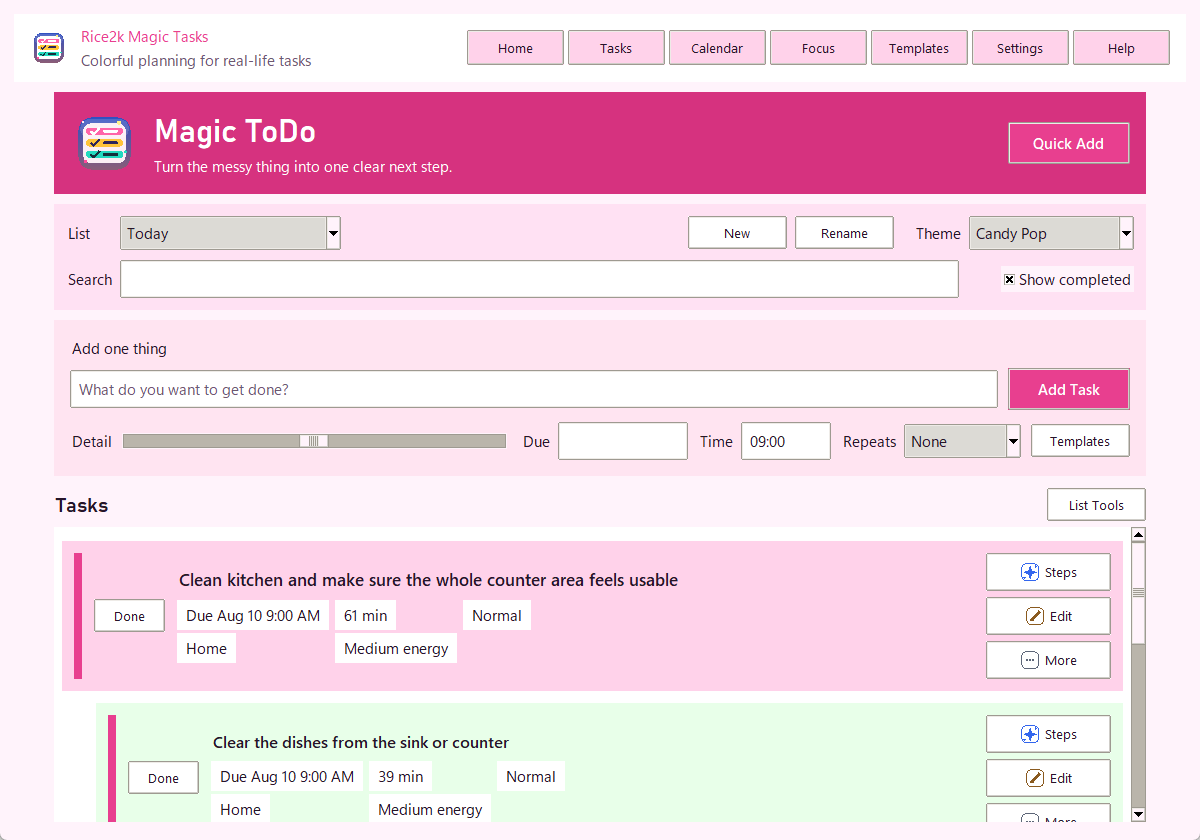
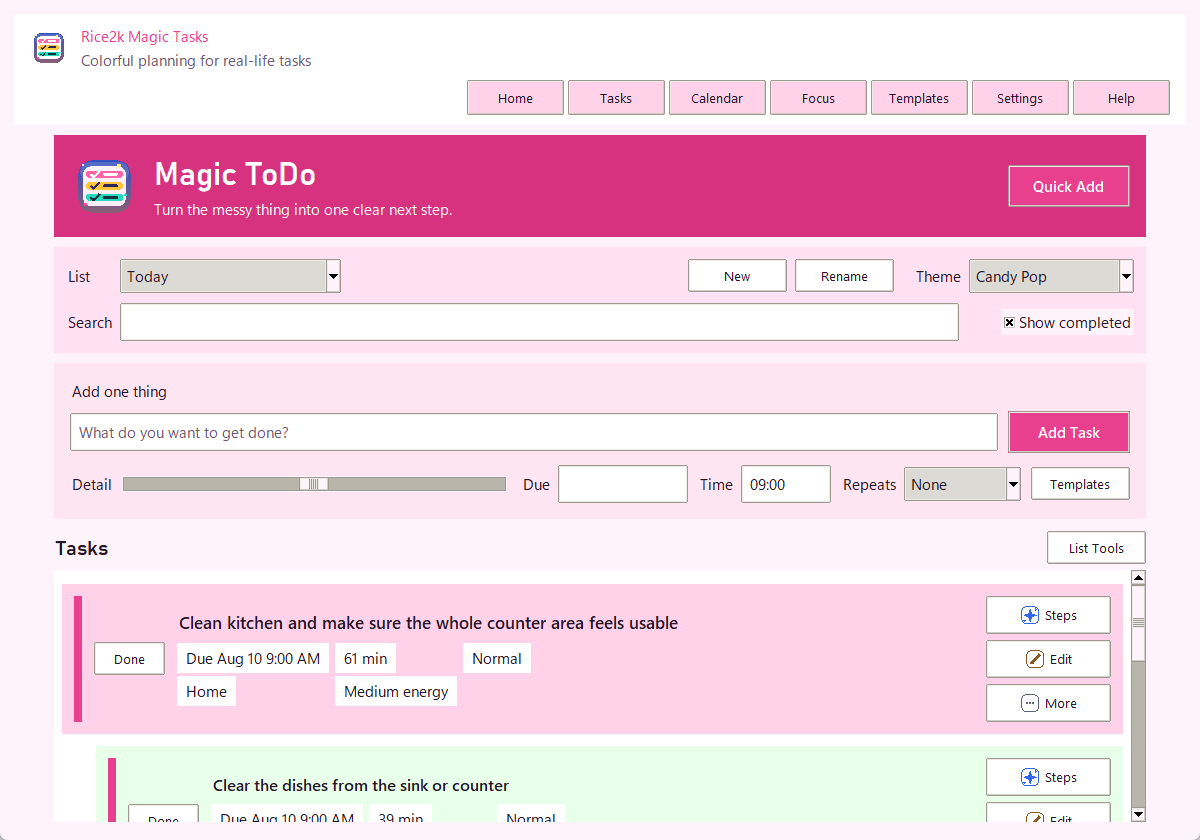
Add reading size controls

diff --git a/src/rice2k_magic_tasks.py b/src/rice2k_magic_tasks.py
@@ -22,7 +22,7 @@ from tkinter import font as tkfont
 from tkinter import ttk
 
 APP_NAME = "Rice2k Magic Tasks"
-VERSION = "3.0.1"
+VERSION = "3.1.0"
 APP_DIR = Path(os.getenv("APPDATA", Path.home())) / "Rice2kMagicTasks"
 DATA_FILE = APP_DIR / "tasks.json"
 
@@ -285,6 +285,7 @@ THEME_ALIASES = {
 
 DEFAULT_SETTINGS = {
     "theme": "Classic Web",
+    "text_size": "Comfort",
     "compact_rows": False,
     "reduced_motion": False,
     "plain_background": False,
@@ -302,6 +303,8 @@ FONT_STACKS = {
     "compact": ("Aptos", "Segoe UI", "Arial"),
     "mono": ("Cascadia Mono", "Consolas", "Courier New"),
 }
+TEXT_SIZE_OPTIONS = ["Compact", "Comfort", "Large"]
+TEXT_SIZE_STEPS = {"Compact": -1, "Comfort": 0, "Large": 2}
 
 RECURRENCE_OPTIONS = ["None", "Daily", "Weekdays", "Weekly", "Monthly"]
 
@@ -393,6 +396,24 @@ def compact_label(value: str, limit: int = 34) -> str:
     if len(value) <= limit:
         return value
     return f"{value[: max(0, limit - 3)].rstrip()}..."
+
+
+def safe_display_text(value: str, chunk: int = 24) -> str:
+    """Add soft break spaces inside long tokens so Tk labels can wrap them."""
+    words = []
+    for word in clean_text(value).split(" "):
+        if len(word) <= chunk:
+            words.append(word)
+            continue
+        pieces = []
+        current = word
+        while len(current) > chunk:
+            pieces.append(current[:chunk])
+            current = current[chunk:]
+        if current:
+            pieces.append(current)
+        words.append(" ".join(pieces))
+    return " ".join(words)
 
 
 def short_time_label(value: str | None) -> str:
@@ -897,6 +918,8 @@ class MagicTasksApp:
         for key, value in DEFAULT_SETTINGS.items():
             data["settings"].setdefault(key, value)
         data["settings"]["theme"] = normalize_theme_name(data["settings"].get("theme"))
+        if data["settings"].get("text_size") not in TEXT_SIZE_OPTIONS:
+            data["settings"]["text_size"] = DEFAULT_SETTINGS["text_size"]
         data["events"] = [self.normalize_event(event) for event in data.get("events", []) if isinstance(event, dict)]
         return data
 
@@ -934,20 +957,21 @@ class MagicTasksApp:
         display = self.choose_font_family(FONT_STACKS["display"])
         compact = self.choose_font_family(FONT_STACKS["compact"])
         mono = self.choose_font_family(FONT_STACKS["mono"])
+        step = TEXT_SIZE_STEPS.get(self.data.get("settings", {}).get("text_size"), 0)
         return {
-            "body": (body, 11),
-            "body_bold": (body_bold, 11, "bold"),
-            "small": (compact, 10),
-            "small_bold": (compact, 10, "bold"),
-            "display": (display, 11),
-            "title": (display, 19, "bold"),
-            "app_title": (display, 22, "bold"),
-            "hero": (display, 24, "bold"),
-            "section": (body_bold, 11, "bold"),
-            "badge": (compact, 9),
-            "badge_bold": (compact, 9, "bold"),
-            "timer": (display, 46, "bold"),
-            "mono": (mono, 10),
+            "body": (body, 11 + step),
+            "body_bold": (body_bold, 11 + step, "bold"),
+            "small": (compact, 10 + step),
+            "small_bold": (compact, 10 + step, "bold"),
+            "display": (display, 11 + step),
+            "title": (display, 19 + step, "bold"),
+            "app_title": (display, 22 + step, "bold"),
+            "hero": (display, 24 + step, "bold"),
+            "section": (body_bold, 11 + step, "bold"),
+            "badge": (compact, max(8, 9 + step)),
+            "badge_bold": (compact, max(8, 9 + step), "bold"),
+            "timer": (display, 46 + step * 3, "bold"),
+            "mono": (mono, 10 + step),
         }
 
     def font(self, name: str) -> tuple:
@@ -1043,9 +1067,12 @@ class MagicTasksApp:
     def apply_theme(self, theme_name: str) -> None:
         theme_name = normalize_theme_name(theme_name)
         self.data["settings"]["theme"] = theme_name
+        self.fonts = self.build_fonts()
+        self.root.option_add("*Font", self.font("body"))
         colors = self.colors()
         display_bg = colors["panel"] if self.data["settings"].get("plain_background") else colors["bg"]
-        row_height = 30 if self.data["settings"].get("compact_rows") else 40
+        row_base = 30 if self.data["settings"].get("compact_rows") else 40
+        row_height = row_base + max(0, TEXT_SIZE_STEPS.get(self.data["settings"].get("text_size"), 0)) * 3
         self.root.configure(bg=display_bg)
         self.style.configure(".", background=display_bg, foreground=colors["text"], fieldbackground=colors["panel"], font=self.font("body"))
         self.style.configure("TFrame", background=display_bg)
@@ -1129,7 +1156,7 @@ class MagicTasksApp:
         self.header = ttk.Frame(self.shell, padding=(14, 10), style="Header.TFrame")
         self.header.pack(fill="x", pady=(0, 10))
         brand = ttk.Frame(self.header, style="Header.TFrame")
-        brand.pack(side="left", fill="x", expand=True)
+        brand.pack(fill="x")
         if self.app_icon_small:
             ttk.Label(brand, image=self.app_icon_small, style="Header.TLabel").pack(side="left", padx=(0, 10))
         brand_text = ttk.Frame(brand, style="Header.TFrame")
@@ -1137,7 +1164,7 @@ class MagicTasksApp:
         ttk.Label(brand_text, text=APP_NAME, style="HeaderTitle.TLabel").pack(anchor="w")
         ttk.Label(brand_text, text="Colorful planning for real-life tasks", style="HeaderSub.TLabel").pack(anchor="w")
         self.nav = ttk.Frame(self.header, style="Header.TFrame")
-        self.nav.pack(side="right")
+        self.nav.pack(anchor="e", pady=(8, 0))
         for name, label in [
             ("Dashboard", "Home"),
             ("Tasks", "Tasks"),
@@ -1341,7 +1368,7 @@ class MagicTasksApp:
             row = ttk.Frame(next_box, style="Panel.TFrame")
             row.pack(fill="x", pady=5)
             mark = "Subtask" if parent else task_list["name"]
-            ttk.Label(row, text=task["text"], style="Panel.TLabel", font=self.font("body_bold"), wraplength=300).pack(anchor="w")
+            ttk.Label(row, text=safe_display_text(task["text"]), style="Panel.TLabel", font=self.font("body_bold"), wraplength=300).pack(anchor="w")
             ttk.Label(row, text=f"{mark} | {task.get('estimate', 10)} min | {task.get('energy', 'Medium')} energy", style="Muted.TLabel").pack(anchor="w")
         if not open_tasks:
             ttk.Label(next_box, text="Everything is complete.", style="Panel.TLabel").pack(anchor="w")
@@ -1563,7 +1590,7 @@ class MagicTasksApp:
         text_area = ttk.Frame(card, style=frame_style)
         text_area.pack(side="left", fill="x", expand=True)
         title_font = (self.font("body_bold")[0], 13 if depth == 0 else 12, "bold")
-        title = ttk.Label(text_area, text=task["text"], style=title_style, font=title_font, wraplength=self.task_title_wraplength(depth))
+        title = ttk.Label(text_area, text=safe_display_text(task["text"]), style=title_style, font=title_font, wraplength=self.task_title_wraplength(depth))
         title.pack(anchor="w")
         self.bind_task_clicks(text_area, task["id"])
         self.bind_task_clicks(title, task["id"])
@@ -2579,7 +2606,7 @@ class MagicTasksApp:
             current = open_refs[0][0]
             self.focus_task_id = current["id"]
         if current:
-            ttk.Label(left, text=current["text"], style="Panel.TLabel", font=self.font("app_title"), wraplength=620).pack(anchor="w")
+            ttk.Label(left, text=safe_display_text(current["text"]), style="Panel.TLabel", font=self.font("app_title"), wraplength=620).pack(anchor="w")
             details = f"{current.get('estimate', 10)} min | {current.get('energy', 'Medium')} energy | {current.get('priority', 'Normal')}"
             ttk.Label(left, text=details, style="Muted.TLabel").pack(anchor="w", pady=(4, 20))
         else:
@@ -2796,6 +2823,7 @@ class MagicTasksApp:
         panel = self.panel(self.content)
         panel.pack(fill="x")
         theme_var = StringVar(value=self.data["settings"].get("theme", DEFAULT_SETTINGS["theme"]))
+        text_size_var = StringVar(value=self.data["settings"].get("text_size", DEFAULT_SETTINGS["text_size"]))
         compact_var = StringVar(value=str(self.data["settings"].get("compact_rows", False)))
         plain_var = StringVar(value=str(self.data["settings"].get("plain_background", False)))
         ttk.Label(panel, text="Theme", style="Section.TLabel").pack(anchor="w")
@@ -2809,6 +2837,17 @@ class MagicTasksApp:
             ttk.Label(option, text=THEMES[name]["description"], style="Muted.TLabel", wraplength=390).pack(anchor="w", padx=(22, 0))
             theme_grid.columnconfigure(idx % 2, weight=1)
         ttk.Label(panel, text="Reading Comfort", style="Section.TLabel").pack(anchor="w")
+        size_row = ttk.Frame(panel, style="Panel.TFrame")
+        size_row.pack(fill="x", pady=(4, 8))
+        ttk.Label(size_row, text="Text size", style="Panel.TLabel").pack(side="left", padx=(0, 10))
+        for size in TEXT_SIZE_OPTIONS:
+            ttk.Radiobutton(
+                size_row,
+                text=size,
+                value=size,
+                variable=text_size_var,
+                command=lambda v=text_size_var: self.preview_text_size(v.get()),
+            ).pack(side="left", padx=(0, 10))
         for label, var, key in [
             ("Smaller task rows", compact_var, "compact_rows"),
             ("Plain background", plain_var, "plain_background"),
@@ -2825,6 +2864,12 @@ class MagicTasksApp:
 
     def preview_setting(self, key: str, value: bool) -> None:
         self.data["settings"][key] = value
+        self.apply_theme(self.data["settings"].get("theme", DEFAULT_SETTINGS["theme"]))
+
+    def preview_text_size(self, value: str) -> None:
+        if value not in TEXT_SIZE_OPTIONS:
+            value = DEFAULT_SETTINGS["text_size"]
+        self.data["settings"]["text_size"] = value
         self.apply_theme(self.data["settings"].get("theme", DEFAULT_SETTINGS["theme"]))
 
     def save_settings(self) -> None:
@@ -2875,7 +2920,7 @@ class MagicTasksApp:
         frame = ttk.Frame(win, padding=14)
         frame.pack(fill="both", expand=True)
         ttk.Label(frame, text="Reminder", font=(self.font("display")[0], 16, "bold")).pack(anchor="w")
-        ttk.Label(frame, text=task["text"], wraplength=380).pack(anchor="w", pady=8)
+        ttk.Label(frame, text=safe_display_text(task["text"]), wraplength=380).pack(anchor="w", pady=8)
         ttk.Label(frame, text=f"{task_list['name']} | {due_dt.strftime('%Y-%m-%d %I:%M %p').replace(' 0', ' ')}").pack(anchor="w")
         buttons = ttk.Frame(frame)
         buttons.pack(fill="x", pady=(12, 0))
@@ -2892,7 +2937,7 @@ class MagicTasksApp:
         frame = ttk.Frame(win, padding=14)
         frame.pack(fill="both", expand=True)
         ttk.Label(frame, text="Event Reminder", font=(self.font("display")[0], 16, "bold")).pack(anchor="w")
-        ttk.Label(frame, text=event["title"], wraplength=390).pack(anchor="w", pady=8)
+        ttk.Label(frame, text=safe_display_text(event["title"]), wraplength=390).pack(anchor="w", pady=8)
         ttk.Label(frame, text=f"{event_dt.strftime('%Y-%m-%d %I:%M %p').replace(' 0', ' ')} | {event.get('recurrence', 'None')}").pack(anchor="w")
         buttons = ttk.Frame(frame)
         buttons.pack(fill="x", pady=(12, 0))

diff --git a/tests/smoke_test.py b/tests/smoke_test.py
@@ -16,6 +16,7 @@ from rice2k_magic_tasks import (
     next_recurrence_date,
     normalize_theme_name,
     parse_date,
+    safe_display_text,
 )
 
 
@@ -49,6 +50,7 @@ def test_default_data_shape():
     assert data["templates"]
     assert data["events"] == []
     assert data["settings"]["theme"] == "Classic Web"
+    assert data["settings"]["text_size"] == "Comfort"
 
 
 def test_theme_count_and_names():
@@ -87,6 +89,11 @@ def test_recurring_event_occurrences():
 def test_calendar_labels_stay_short():
     assert calendar_event_text({"start_time": "08:30", "title": "Planning block that has a long name"}) == "8:30 Planning..."
     assert calendar_task_text({"text": "Write a very long project update email"}) == "Write a very lo..."
+
+
+def test_safe_display_text_breaks_long_words():
+    value = safe_display_text("aaaaaaaaaaaaaaaaaaaaaaaaaaaaaaaa", chunk=8)
+    assert value == "aaaaaaaa aaaaaaaa aaaaaaaa aaaaaaaa"
 
 
 def test_icon_assets_exist():

diff --git a/README.md b/README.md
@@ -9,7 +9,7 @@
 </p>
 
 <p align="center">
-  <img alt="Version" src="https://img.shields.io/badge/version-3.0.1-e83f8f">
+  <img alt="Version" src="https://img.shields.io/badge/version-3.1.0-e83f8f">
   <img alt="Platform" src="https://img.shields.io/badge/platform-Windows-008bb8">
   <img alt="Themes" src="https://img.shields.io/badge/themes-10-7b4ce3">
   <img alt="License" src="https://img.shields.io/badge/license-MIT-19a974">
@@ -31,12 +31,12 @@
 
 Get the latest Windows build from the [Releases](../../releases) page.
 
-The v3.0.1 release includes:
+The v3.1.0 release includes:
 
-- `Rice2k-Magic-Tasks-v3.0.1.exe` - single-file Windows app.
-- `Rice2k-Magic-Tasks-v3.0.1.zip` - release package.
-- `Rice2k-Magic-Tasks-v3.0.1.sha256` - checksum file.
-- `Rice2k-Magic-Tasks-Source-v3.0.1.zip` - source archive.
+- `Rice2k-Magic-Tasks-v3.1.0.exe` - single-file Windows app.
+- `Rice2k-Magic-Tasks-v3.1.0.zip` - release package.
+- `Rice2k-Magic-Tasks-v3.1.0.sha256` - checksum file.
+- `Rice2k-Magic-Tasks-Source-v3.1.0.zip` - source archive.
 
 Windows may show a SmartScreen warning because the app is unsigned.
 
@@ -51,7 +51,7 @@ Windows may show a SmartScreen warning because the app is unsigned.
 
 ## How To Use
 
-1. Open `Rice2k-Magic-Tasks-v3.0.1.exe`.
+1. Open `Rice2k-Magic-Tasks-v3.1.0.exe`.
 2. Type a task into **What do you want to get done?**.
 3. Use **Detail** to choose how small the suggested steps should be.
 4. Add a due date, time, or repeat setting if you want one.
@@ -112,6 +112,8 @@ Settings also includes smaller task rows and a plain background option for readi
 - Colorful task cards with readable due date, estimate, priority, category, and energy badges.
 - Multi-font UI pairing with display, body, compact badge, and mono fallbacks.
 - Responsive title wrapping and shorter labels to keep text inside task cards and calendar cells.
+- Text-size control with Compact, Comfort, and Large modes.
+- Long-word protection for pasted links or unbroken text in task cards and reminders.
 - Colored priority stripes.
 - Search and completed-task filtering.
 - Checkbox controls.
@@ -207,7 +209,7 @@ No account is required. The app does not upload task data by default.
 After downloading the EXE or ZIP, compare its SHA-256 hash with the release checksum file.
 
 ```powershell
-Get-FileHash .\Rice2k-Magic-Tasks-v3.0.1.exe -Algorithm SHA256
+Get-FileHash .\Rice2k-Magic-Tasks-v3.1.0.exe -Algorithm SHA256
 ```
 
 ## Project Layout

diff --git a/docs/RELEASE_NOTES.md b/docs/RELEASE_NOTES.md
@@ -1,18 +1,17 @@
-# Rice2k Magic Tasks v3.0.1
+# Rice2k Magic Tasks v3.1.0
 
-Readability and font polish update for the v3 interface.
+Reading controls and long-text protection update.
 
 ## Highlights
 
-- Added a multi-font UI setup with display, body, compact badge, and mono fallbacks.
-- Uses strong heading fonts where available, while keeping body text on readable Windows UI fonts.
-- Added responsive task-title wrapping so long task names stay inside the card.
-- Changed task badges from one long row into a small wrapping grid.
-- Shortened category, energy, task, and calendar labels before they can hit an edge.
-- Made calendar event times shorter, such as **8:30 Planning...**, so cells stay readable.
-- Reduced navigation padding and renamed Dashboard to **Home** in the top bar so all tabs fit at the minimum window size.
-- Updated Help copy to match the cleaner v3 task-card flow.
-- Refreshed README screenshots with longer sample text to verify wrapping.
+- Added a **Text size** setting with Compact, Comfort, and Large modes.
+- Text-size previews immediately in Settings and is saved with the rest of the appearance options.
+- Scales body text, headings, buttons, badges, timers, and table rows together.
+- Added long-word protection so pasted links, long IDs, or single huge words can wrap inside task cards.
+- Applied safer display text to task cards, dashboard next actions, focus mode, and reminder popups.
+- Kept the multi-font pairing from v3 while making the sizing easier to adjust.
+- Refreshed screenshots to show the Settings reading controls and long task examples.
+- Added tests for the default text-size setting, calendar labels, and long-word wrapping.
 
 ## Notes
 
